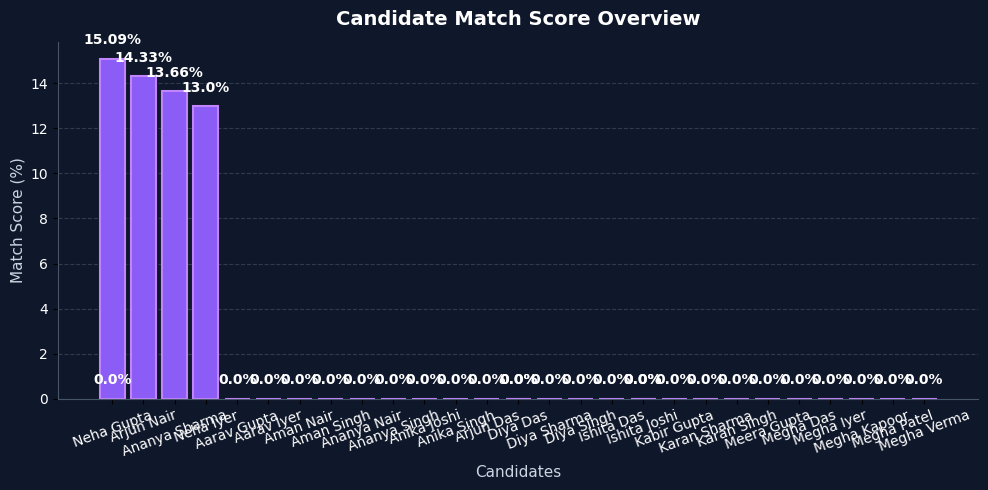
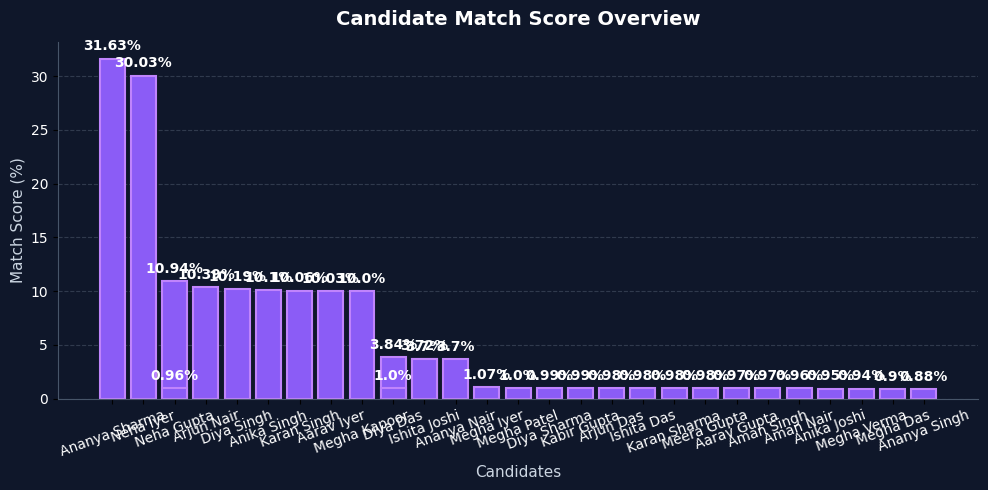
Fixed skill extraction bug and improved skill database

diff --git a/templates/about.html b/templates/about.html
@@ -103,8 +103,8 @@
           <p>This project <strong>ResumeAI</strong> is developed by:</p>
 
           <ul>
-            <li><strong>Vaibhav Sharma</strong> – MCA 1B</li>
-            <li><strong>Joy Madan</strong> – MCA 1B</li>
+            <li><strong>Vaibhav Sharma</strong> – MCA 2B</li>
+            <li><strong>Joy Madan</strong> – MCA 2B</li>
           </ul>
 
           <p style="margin-top: 10px; color: #94a3b8">

diff --git a/utils/skill_extractor.py b/utils/skill_extractor.py
@@ -1,16 +1,30 @@
 def extract_skills(text):
-    skills_db = [
-        "python", "java", "c++", "sql", "machine learning",
-        "data analysis", "excel", "power bi", "flask",
-        "html", "css", "javascript", "react", "django"
-    ]
+    skills_db = {
+        "programming": [
+            "python", "java", "c++", "c", "javascript", "typescript"
+        ],
+        "web": [
+            "html", "css", "react", "angular", "vue", "node", "express", "flask", "django"
+        ],
+        "data": [
+            "sql", "mysql", "postgresql", "mongodb", "data analysis",
+            "pandas", "numpy", "excel", "power bi", "tableau"
+        ],
+        "ai_ml": [
+            "machine learning", "deep learning", "nlp", "computer vision",
+            "scikit-learn", "tensorflow", "keras", "pytorch"
+        ],
+        "tools": [
+            "git", "github", "docker", "aws", "azure", "linux"
+        ]
+    }
 
     found_skills = []
-
     text = text.lower()
 
-    for skill in skills_db:
-        if skill in text:
-            found_skills.append(skill.title())
+    for category in skills_db.values():
+        for skill in category:
+            if skill in text:
+                found_skills.append(skill.title())
 
-    return found_skills
+    return list(set(found_skills))
